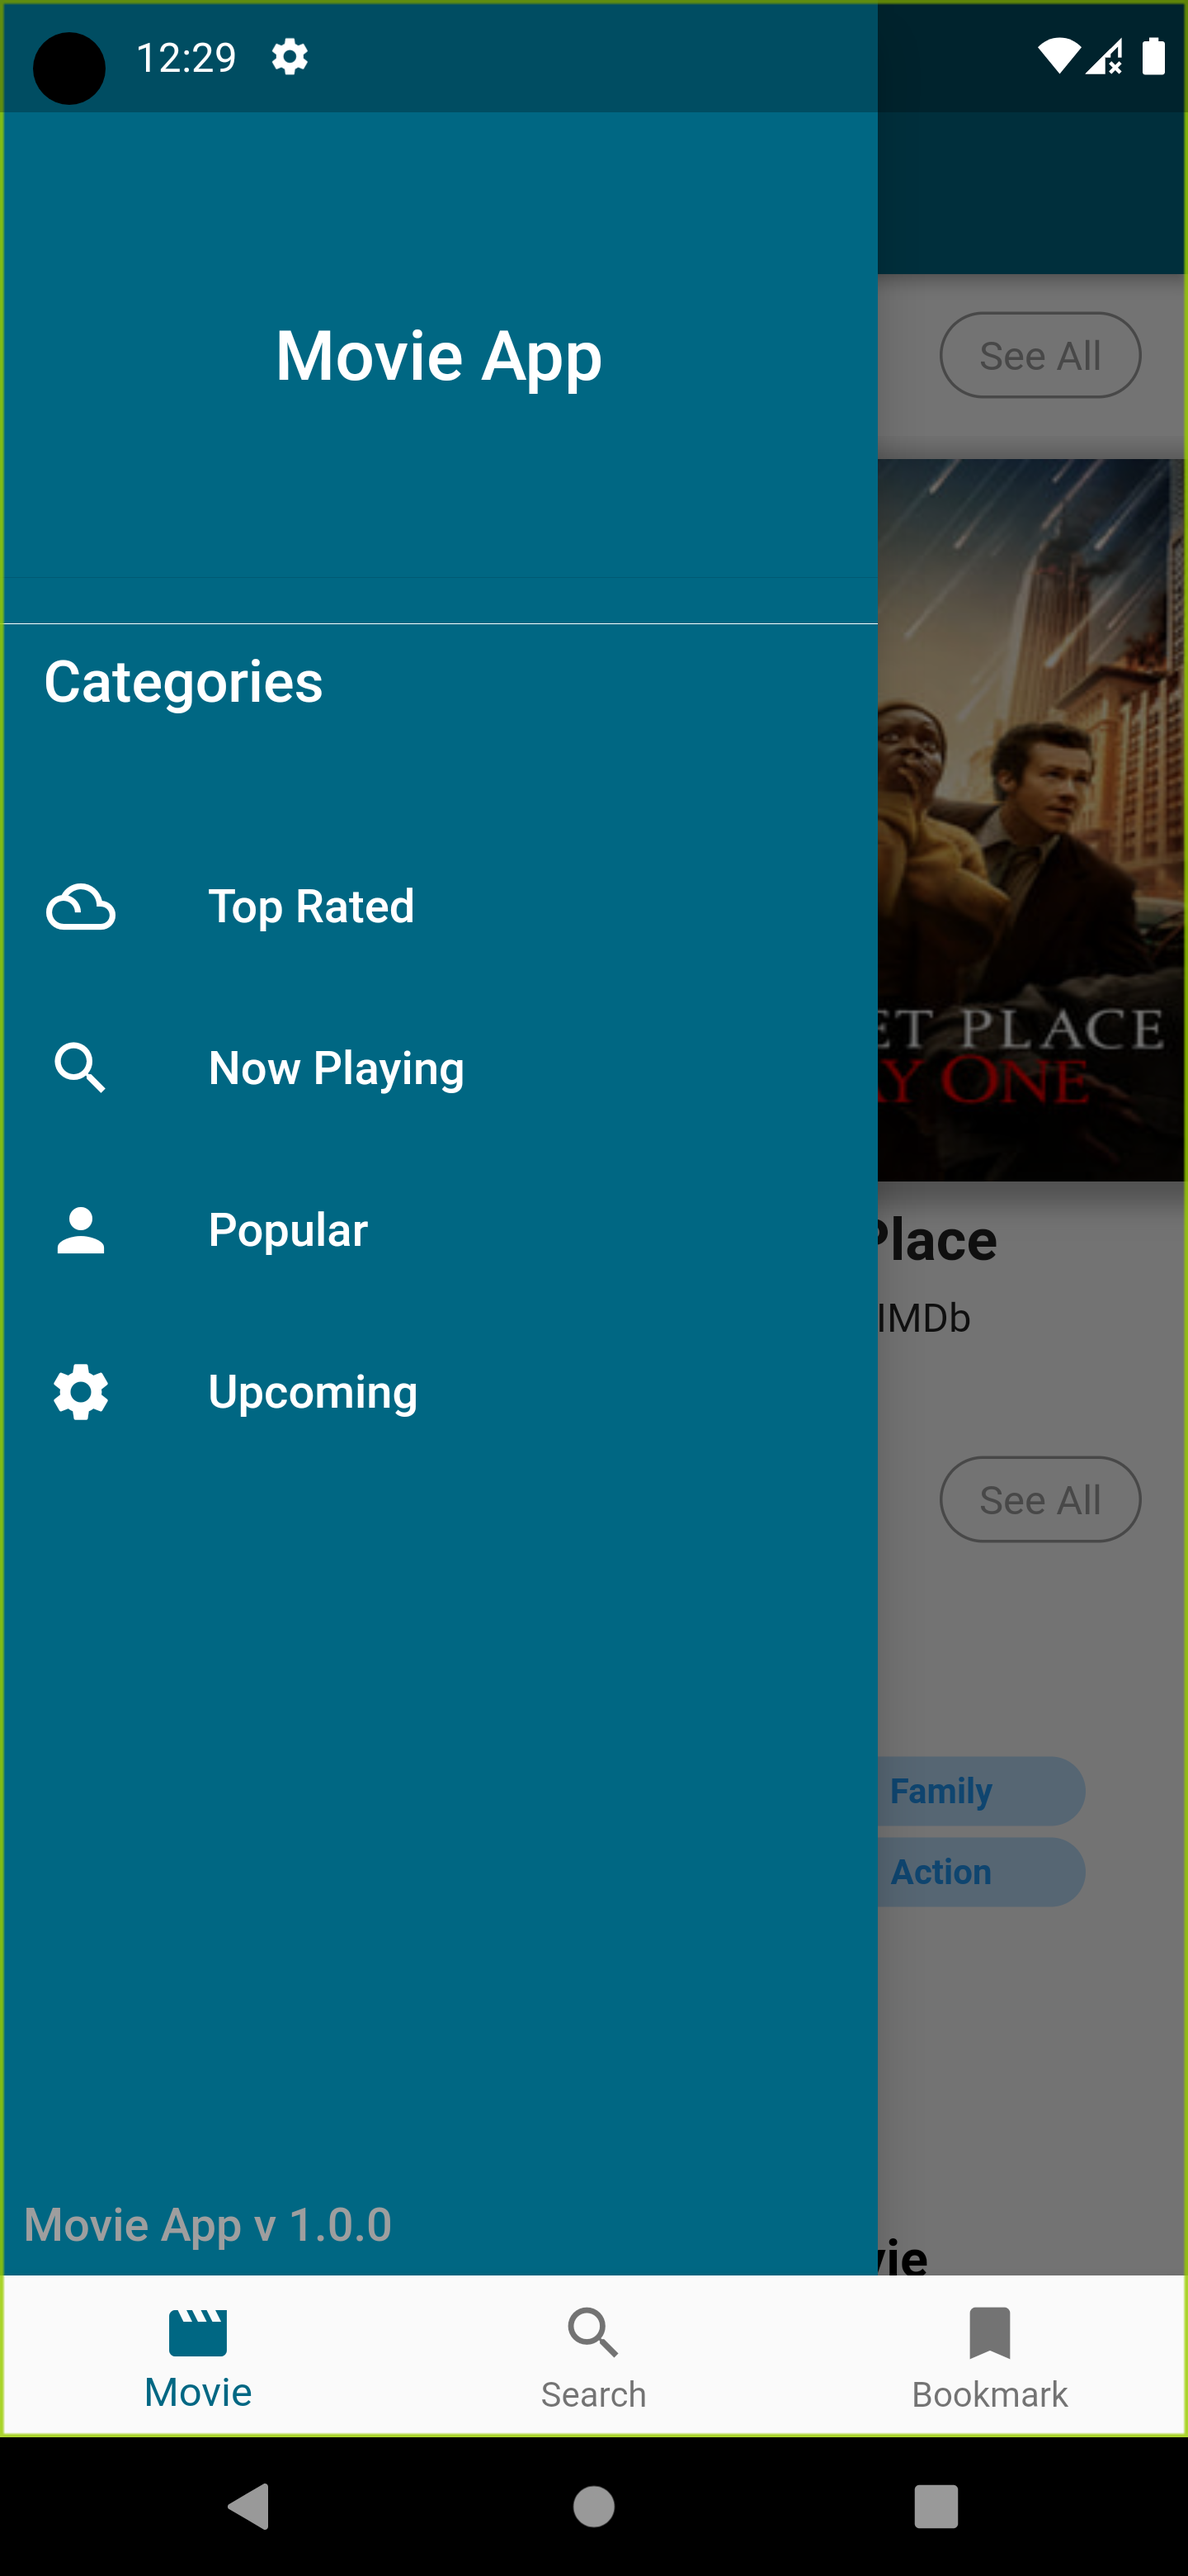
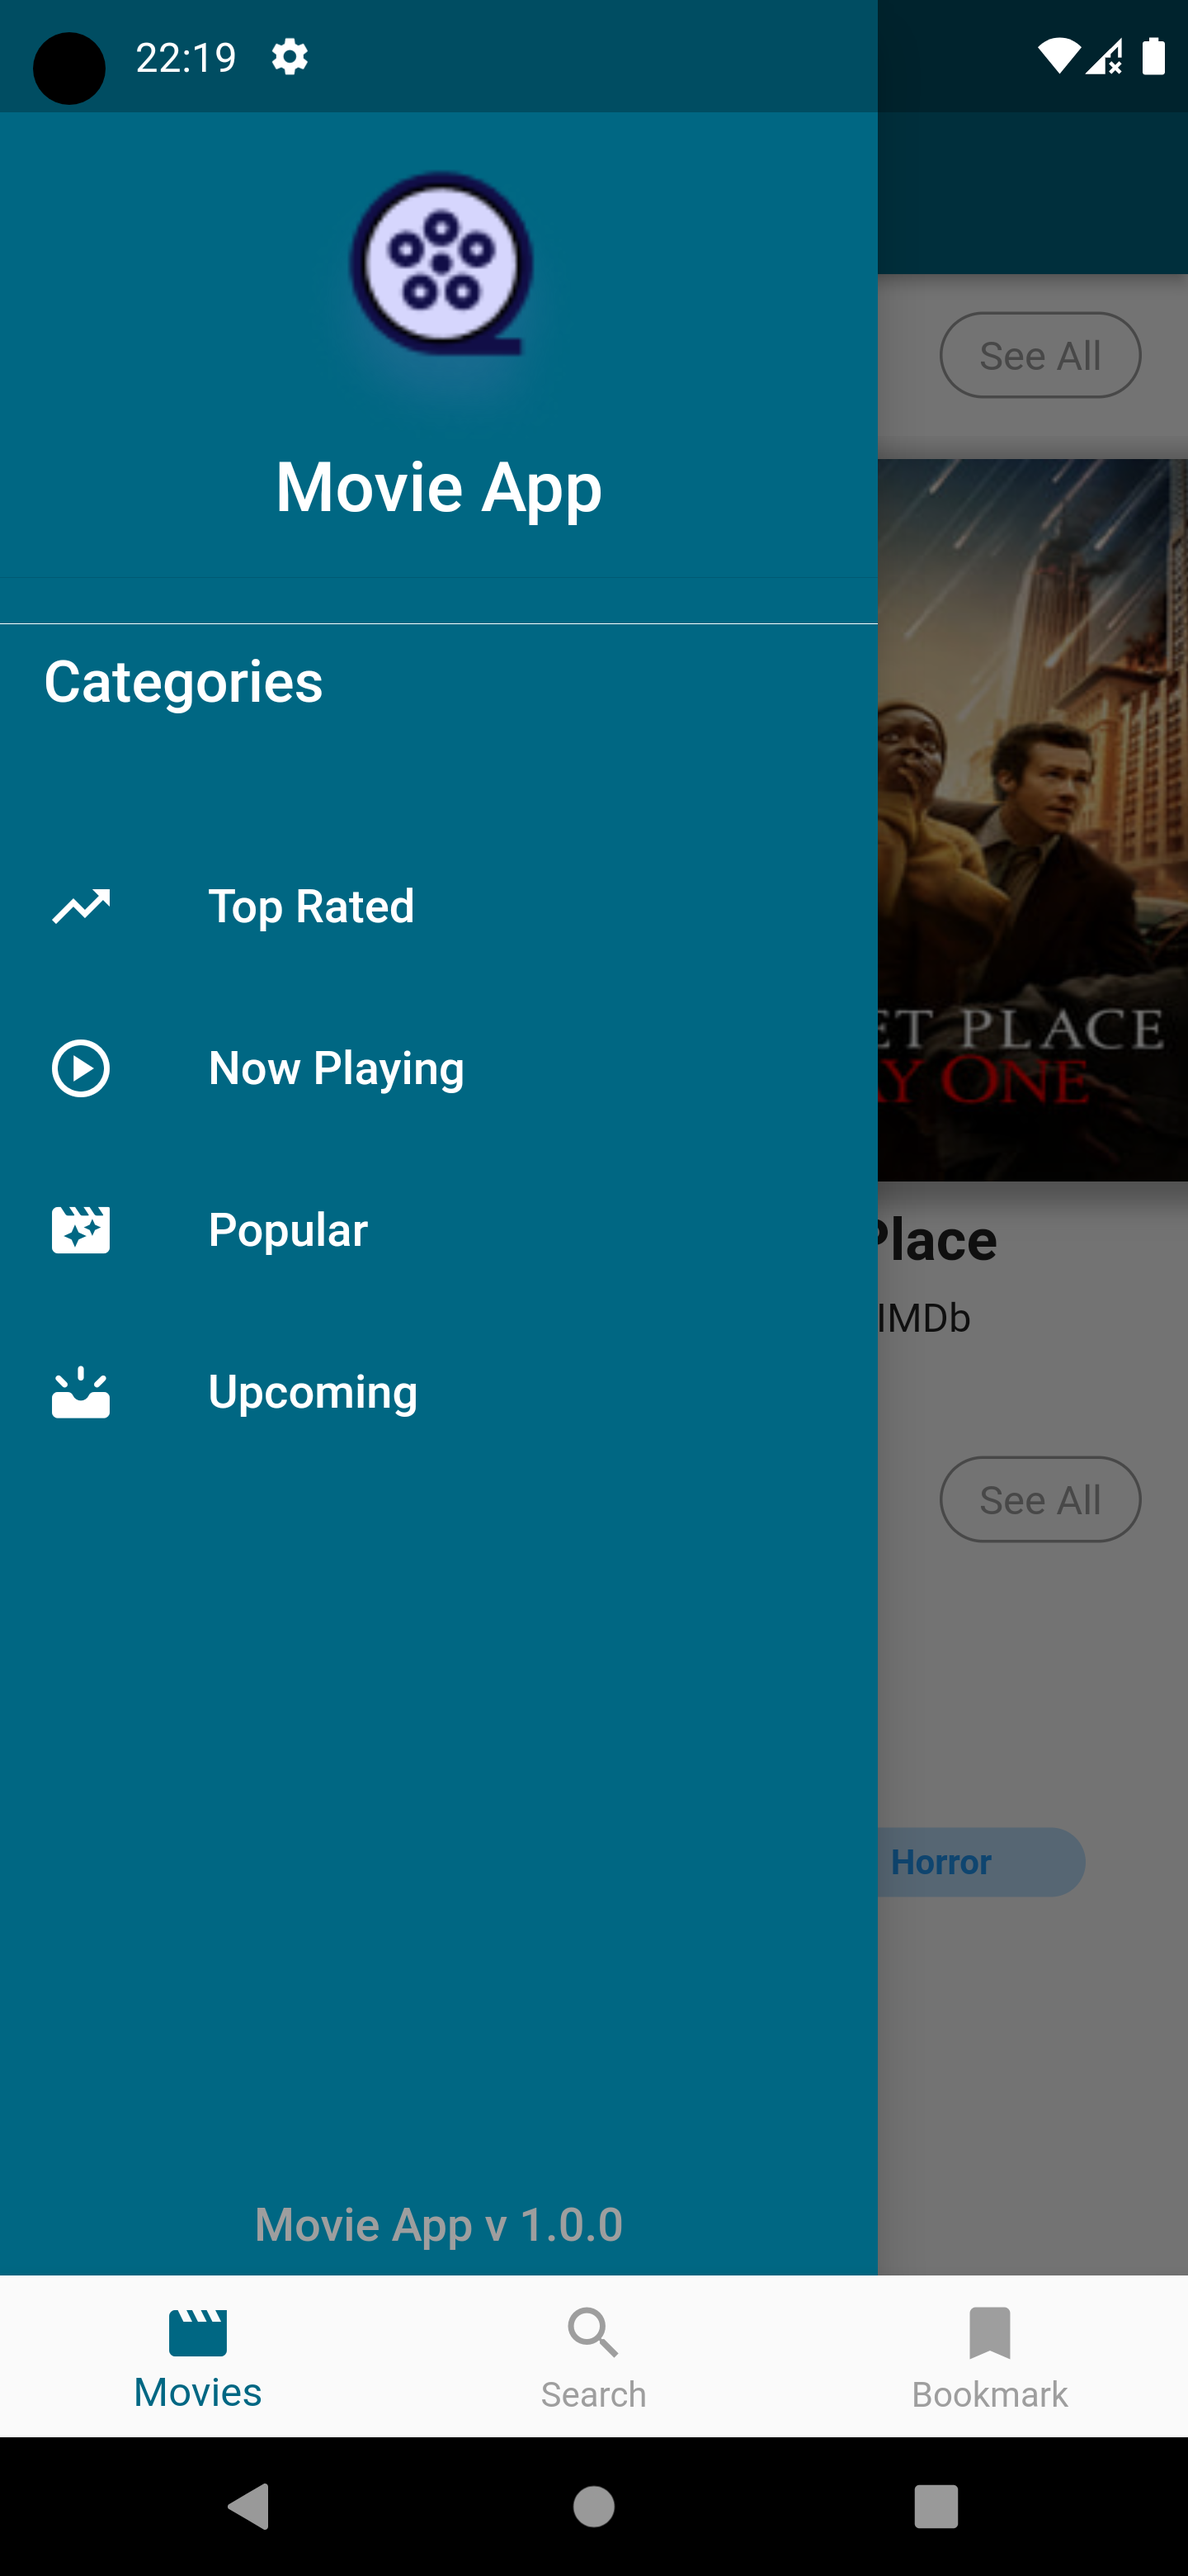
fix some bugs

diff --git a/lib/views/screens/drawer_screen.dart b/lib/views/screens/drawer_screen.dart
@@ -18,13 +18,23 @@ class DrawerScreen extends StatelessWidget {
       child: Column(
         crossAxisAlignment: CrossAxisAlignment.start,
         children: [
-          const DrawerHeader(
+          DrawerHeader(
             child: Center(
-              child: CustomText(
-                text: 'Movie App',
-                color: Colors.white,
-                fontWeight: FontWeight.w500,
-                fintSize: 24,
+              child: Column(
+                children: [
+                  Image.asset(
+                    'assets/images/movie.png',
+                    fit: BoxFit.fill,
+                    height: 100,
+                    width: 100,
+                  ),
+                  const CustomText(
+                    text: 'Movie App',
+                    color: Colors.white,
+                    fontWeight: FontWeight.w500,
+                    fintSize: 24,
+                  ),
+                ],
               ),
             ),
           ),
@@ -72,13 +82,15 @@ class DrawerScreen extends StatelessWidget {
               },
             ),
           ),
-          const Padding(
-            padding: EdgeInsets.all(8.0),
-            child: CustomText(
-              text: 'Movie App v 1.0.0',
-              color: Colors.grey,
-              fontWeight: FontWeight.w500,
-              fintSize: 16,
+          const Center(
+            child: Padding(
+              padding: EdgeInsets.all(8.0),
+              child: CustomText(
+                text: 'Movie App v 1.0.0',
+                color: Colors.grey,
+                fontWeight: FontWeight.w500,
+                fintSize: 16,
+              ),
             ),
           ),
         ],

diff --git a/lib/views/screens/main_screen.dart b/lib/views/screens/main_screen.dart
@@ -23,16 +23,18 @@ class MainScreen extends StatelessWidget {
         ),
         bottomNavigationBar: BottomNavigationBar(
           currentIndex: controller.currentIndex.value,
-          onTap: (index) {
-            controller.changeIndex(index);
-          },
+          onTap: controller.changeIndex,
+          selectedItemColor: const Color(0xff006783),
+          unselectedItemColor: Colors.grey,
+          showUnselectedLabels: true,
+          elevation: 10,
           items: const [
             BottomNavigationBarItem(
               icon: Icon(Icons.movie),
-              label: 'Movie',
+              label: 'Movies',
             ),
             BottomNavigationBarItem(
-              icon: Icon(Icons.search),
+              icon: Icon(Icons.search_outlined),
               label: 'Search',
             ),
             BottomNavigationBarItem(

diff --git a/lib/models/drawer_model.dart b/lib/models/drawer_model.dart
@@ -17,22 +17,22 @@ class DrawerList {
     DrawerModel(
       title: 'Top Rated',
       api: 'top_rated',
-      icon: Icons.filter_drama,
+      icon: Icons.trending_up,
     ),
     DrawerModel(
       title: 'Now Playing',
       api: 'now_playing',
-      icon: Icons.search,
+      icon: Icons.play_circle_outlined,
     ),
     DrawerModel(
       title: 'Popular',
       api: 'popular',
-      icon: Icons.person,
+      icon: Icons.movie_filter_rounded,
     ),
     DrawerModel(
       title: 'Upcoming',
       api: 'upcoming',
-      icon: Icons.settings,
+      icon: Icons.upcoming_rounded,
     ),
   ];
 }

diff --git a/lib/main.dart b/lib/main.dart
@@ -6,7 +6,7 @@ import 'views/screens/main_screen.dart';
 
 void main() {
   WidgetsFlutterBinding.ensureInitialized();
-  IinitialBindings().dependencies();
+  // IinitialBindings().dependencies();
   runApp(const MyApp());
 }
 

diff --git a/lib/controllers/movie_controller.dart b/lib/controllers/movie_controller.dart
@@ -10,7 +10,6 @@ class MovieController extends GetxController {
 
   RxString genreName = ''.obs;
   RxInt currentIndex = 0.obs;
-
   void changeIndex(int index) {
     currentIndex.value = index;
   }
